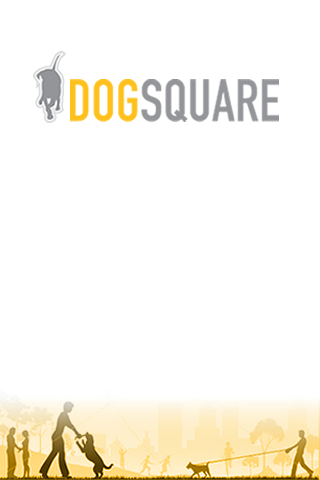
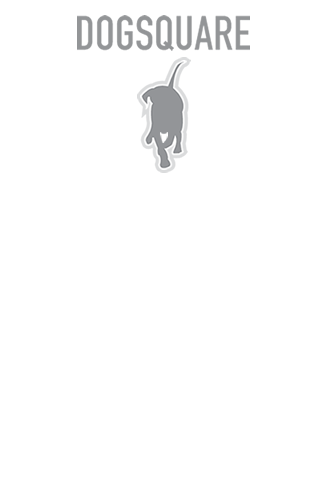
replaced badge, splash screen and some minor fixes

Changed region(s): [[0.0, 0.8125, 1.0, 1.0], [0.0938, 0.0312, 0.875, 0.375]]

diff --git a/Resources/ui/iphone/place_view.js b/Resources/ui/iphone/place_view.js
@@ -97,7 +97,6 @@ function buildCheckinPlaceView(view, placeId){
 			top:0,
 			textAlign:'left',
 			width:280,
-			//height:21,
 			left:17,
 			color:'black',
 			opacity:0.6,
@@ -111,7 +110,6 @@ function buildCheckinPlaceView(view, placeId){
 			top:17,
 			textAlign:'left',
 			width:180,
-			//height:16,
 			left:17,
 			color:'black',
 			opacity:0.8,
@@ -125,7 +123,7 @@ function buildCheckinPlaceView(view, placeId){
 		if(view == VIEW_PLACE_VIEW){
 			//checkin number label
 			var checkinNumberLabel = Ti.UI.createLabel({
-				text:'16 Check-ins',
+				text:'1600 Check-ins',
 				textAlign:'left',
 				width:'auto',
 				height:20,
@@ -262,7 +260,7 @@ var checkinPlacePhotoDialog = Titanium.UI.createOptionDialog({
 //photo dialog event listener
 checkinPlacePhotoDialog.addEventListener('click',function(e){
 	if(e.index == 0){
-		//handleCameraSelection();
+		handleCameraSelection();
 	} else if(e.index == 1){
 		handleCheckinPlacePhotoSelection();
 	}
@@ -381,6 +379,43 @@ function handleCheckinPlacePhotoSelection(){
 	
 		},
 		error:function(error){
+		},
+		allowEditing:true
+	});
+}
+
+//Takes a new photo and uploads it
+function handleCameraSelection(){
+	Titanium.Media.showCamera({	
+		
+		success:function(event){
+			var image = event.media;
+			
+			//Jpeg compression module
+			var jpgcompressor = require('com.sideshowcoder.jpgcompressor');
+			jpgcompressor.setCompressSize(200000);
+			jpgcompressor.setWorstCompressQuality(0.40);
+			
+			var compressedImage = jpgcompressor.compress(image);
+			
+			//Create thumbnail
+			var imageThumbnail = image.imageAsThumbnail(60,0,30);
+			
+			var placePhotoObject = {
+				photo:compressedImage,
+				thumb:imageThumbnail,
+				user_id:userObject.userId,
+				token:userObject.token,
+				place_id:checkinPlaceHeartImage.placeId
+			};
+			
+			uploadPlacePhoto(placePhotoObject);
+		},
+		cancel:function(){
+	
+		},
+		error:function(error){
+			alert('Camera problem');
 		},
 		allowEditing:true
 	});

diff --git a/Resources/ui/iphone/settings.js b/Resources/ui/iphone/settings.js
@@ -20,7 +20,7 @@ function buildSettingsView(){
 			width:293
 		});
 		viewSettings.add(settingsMenuTable);
-		//settingsMenuTable.addEventListener('click', handleSettingsMenuTableRows);
+		settingsMenuTable.addEventListener('click', handleSettingsMenuTableRows);
 		
 		//inbox table view footer
 		settingsMenuTable.footerView = Ti.UI.createView({
@@ -36,6 +36,33 @@ function buildSettingsView(){
 		
 		settingsMenuTable.setData(settingsMenuData);
 	}
+}
+
+//Event handler for settings table
+function handleSettingsMenuTableRows(e){
+	var selectedItem = e.row.menu;
+	
+	if(selectedItem == MENU_EDIT_PROFILE){
+		
+	} else if(selectedItem == MENU_TAKE_TOUR){
+		
+	} else if(selectedItem == MENU_REPORT_PROBLEM){
+		showProblemReportEmailDialog();
+	} else if(selectedItem == MENU_LOGOUT){
+		
+	}
+}
+
+//Opens an email dialog for reporting app problems
+function showProblemReportEmailDialog(){
+	var recipients = ['report@dogsquare.com'];
+	
+	var emailDialog = Ti.UI.createEmailDialog();
+	emailDialog.setBarColor('black');
+	emailDialog.setHtml(true);
+	emailDialog.setSubject(REPORT_PROBLEM_SUBJECT);
+	emailDialog.setToRecipients(recipients);
+	emailDialog.open();
 }
 
 function createSettingsMenuRow(menu){

diff --git a/Resources/ui/iphone/checkin.js b/Resources/ui/iphone/checkin.js
@@ -140,11 +140,12 @@ function populatecheckinPlacesTableView(places){
 			
 			//place image
 			var rowPlaceImage = Titanium.UI.createImageView({
-				image:getUserPhoto(userObject.thumb_path),
+				image:REMOTE_PLACE_IMAGES + places[i].thumb,
+				defaultImage:IMAGE_PATH+'common/default_place_photo.png',
 				left:10,
 				top:5,
-				borderRadius:27,
-				borderWidth:3,
+				borderRadius:30,
+				borderWidth:2,
 				borderColor:'f5a92c'
 			});
 			
@@ -152,7 +153,6 @@ function populatecheckinPlacesTableView(places){
 			var rowPlaceTitleLabel = Titanium.UI.createLabel({ 
 				text:places[i].name,
 				color:'black',
-				//height:16,
 				top:10,
 				width:'auto',
 				textAlign:'left',
@@ -165,7 +165,6 @@ function populatecheckinPlacesTableView(places){
 			var rowPlaceDescriptionLabel = Titanium.UI.createLabel({ 
 				text:places[i].category,
 				color:'black',
-				//height:14,
 				top:28,
 				width:'auto',
 				textAlign:'left',

diff --git a/Resources/ui/iphone/gallery.js b/Resources/ui/iphone/gallery.js
@@ -59,6 +59,7 @@ function buildGalleryView(target_id, photoType){
 }
 
 function populateGallery(photos, type){
+	Ti.API.info('populateGallery() for type '+type);
 	
 	var leftOffset = 9;
 	var topOffset = 9;
@@ -323,6 +324,7 @@ function handleGalleryCameraSelection(){
 	
 		},
 		error:function(error){
+			alert('Camera problem');
 		},
 		allowEditing:true
 	});

diff --git a/Resources/ui/iphone/menu_left.js b/Resources/ui/iphone/menu_left.js
@@ -555,7 +555,7 @@ function handleLeftMenuTextFieldChange(e){
 	
 	if(field == 'search'){
 		//on textfield change, change the opacity and get users found
-		if(name != ''){
+		if(name != '' && name.length > 1){
 			leftmenuEraseIcon.show();
 			leftmenuSearchBackgroundView.opacity = 1;
 			getLeftMenuOnlineUser(name);

diff --git a/Resources/common/dao.js b/Resources/common/dao.js
@@ -207,7 +207,7 @@ function getBadgeDetails(id){
 		};
 	} else if(id == 10){
 		badge = {
-			title:'VIP',
+			title:'VID',
 			description:'Achieved when user checks in at cafe-bars-restaurants with a dog from the pack',
 			award:'You fancy the good life eehh? That\'s the spirit keep it on!'
 		};

diff --git a/Resources/common/translator.js b/Resources/common/translator.js
@@ -36,6 +36,9 @@ function TT(s){
 	var currentLanguage = LANGUAGE_ENGLISH;
 }
 
+//Report a problem subject
+var REPORT_PROBLEM_SUBJECT = 'Dogsquare problem';
+
 //Build the text description for a notification object
 function getNotificationMessage(code){
 	var currentLanguage = LANGUAGE_ENGLISH;

diff --git a/Resources/ui/iphone/photo_view.js b/Resources/ui/iphone/photo_view.js
@@ -8,7 +8,8 @@ function buildPhotoView(img){
 		backgroundColor:'black',
 		barImage:IMAGE_PATH+'common/bar.png',
 		barColor:UI_COLOR,
-		modal:true
+		modal:true,
+		title:'Gallery'
 	});
 	
 	photoViewImage = Ti.UI.createImageView({
